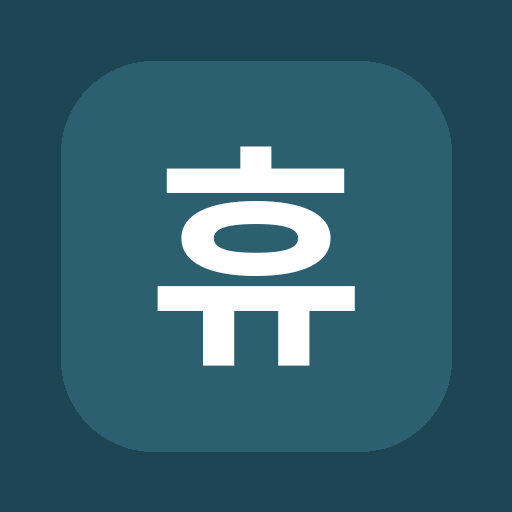
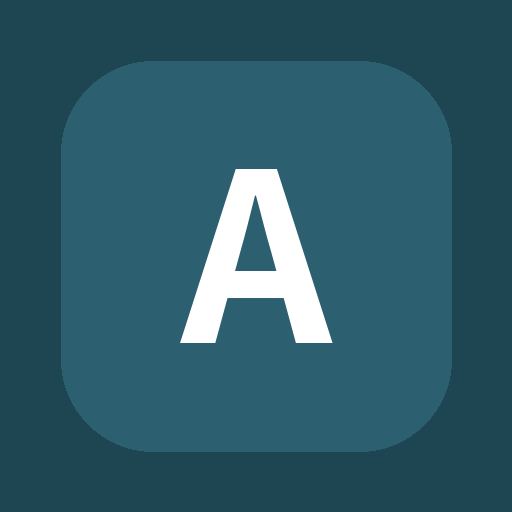
Add files via upload

Changed region(s): [[0.2812, 0.2812, 0.7188, 0.7188]]

diff --git a/index.html b/index.html
@@ -3,13 +3,13 @@
 <head>
 <meta charset="UTF-8">
 <meta name="viewport" content="width=device-width, initial-scale=1.0, maximum-scale=1.0, minimum-scale=1.0, viewport-fit=cover">
-<title>출퇴근 휴무신청 관리시트</title>
+<title>A조 휴무신청 관리시트</title>
 <link rel="manifest" href="./manifest.json">
 <meta name="theme-color" content="#1E4652">
 <meta name="mobile-web-app-capable" content="yes">
 <meta name="apple-mobile-web-app-capable" content="yes">
 <meta name="apple-mobile-web-app-status-bar-style" content="black-translucent">
-<meta name="apple-mobile-web-app-title" content="휴무관리">
+<meta name="apple-mobile-web-app-title" content="A조휴무">
 <link rel="apple-touch-icon" href="./icon-192.png">
 <link rel="icon" href="./icon-192.png">
 <link rel="preconnect" href="https://fonts.googleapis.com">
@@ -308,7 +308,7 @@
   <div class="topbar">
     <div>
       <p class="brand-eyebrow">TEAM SCHEDULE</p>
-      <h1>출퇴근 휴무신청 관리시트</h1>
+      <h1>A조 휴무신청 관리시트</h1>
     </div>
     <div class="month-nav">
       <button id="prevMonth" aria-label="이전 달">‹</button>
@@ -410,7 +410,7 @@
 <div class="app">
   <div class="mtop">
     <div class="mtop-row">
-      <div class="mtitle">출퇴근 휴무신청 관리시트</div>
+      <div class="mtitle">A조 휴무신청 관리시트</div>
       <button class="msettings-btn" id="m-openSettings">⚙</button>
     </div>
     <div class="mmonth-nav">

diff --git a/service-worker.js b/service-worker.js
@@ -1,4 +1,4 @@
-const CACHE_NAME = 'team-schedule-cache-v7';
+const CACHE_NAME = 'team-schedule-cache-v8';
 const APP_SHELL = [
   './',
   './index.html',
